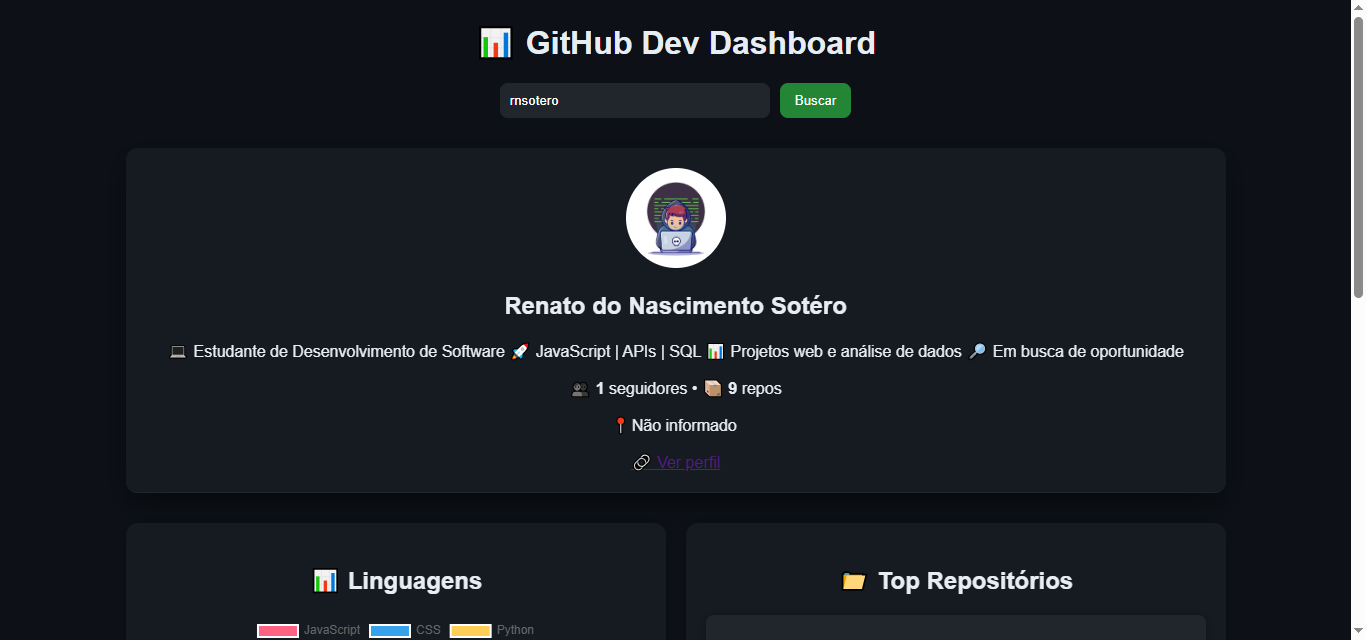
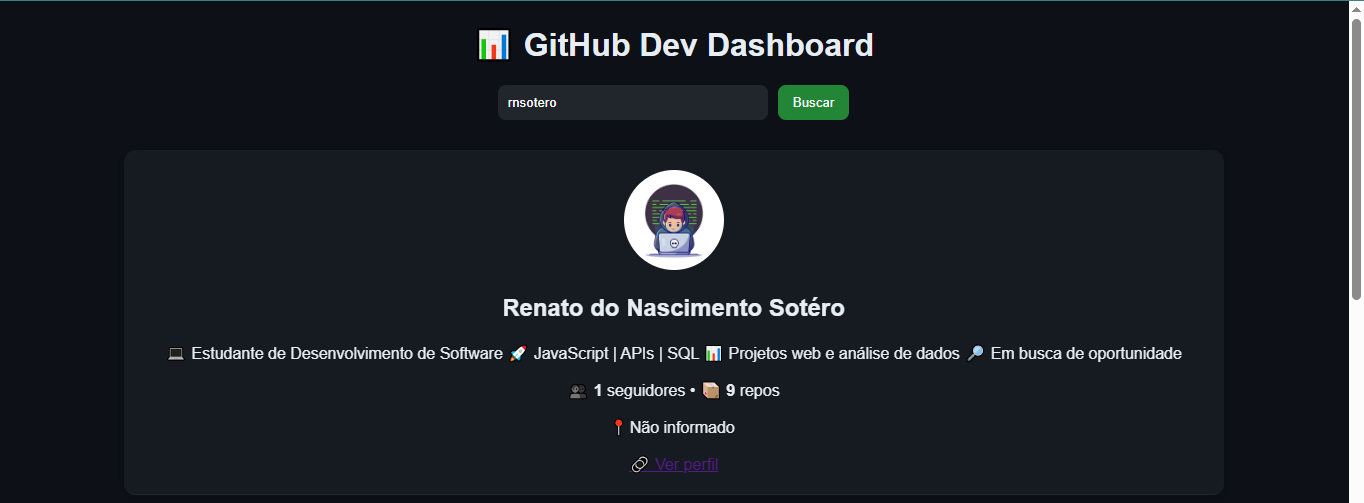
Alteração de imagem

diff --git a/README.md b/README.md
@@ -44,7 +44,7 @@ Este projeto foi desenvolvido com o objetivo de **praticar JavaScript, consumo d
 
 ![Dashboard](images/dashboard.png)
 
-### 📈 Gráfico de Linguagens
+### 📈 Gráfico de Linguagens e Repositórios
 
 ![Grafico](images/chart.png)
 
